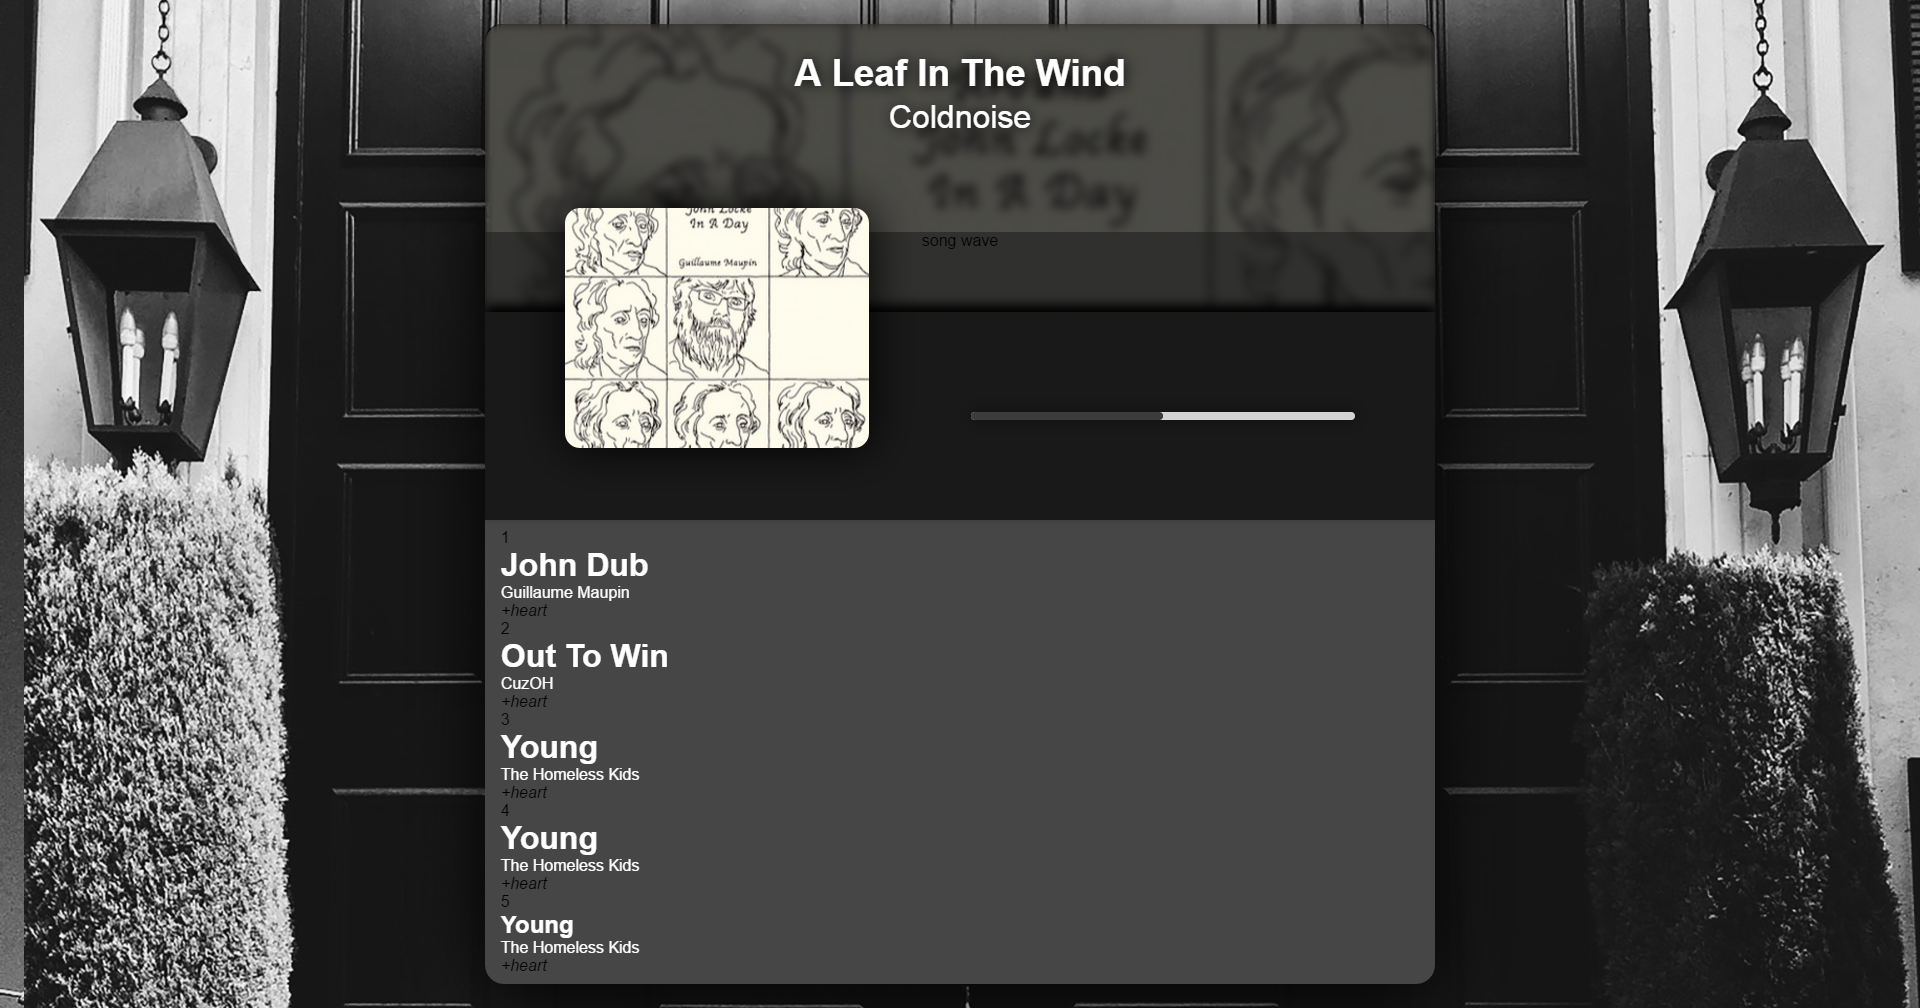
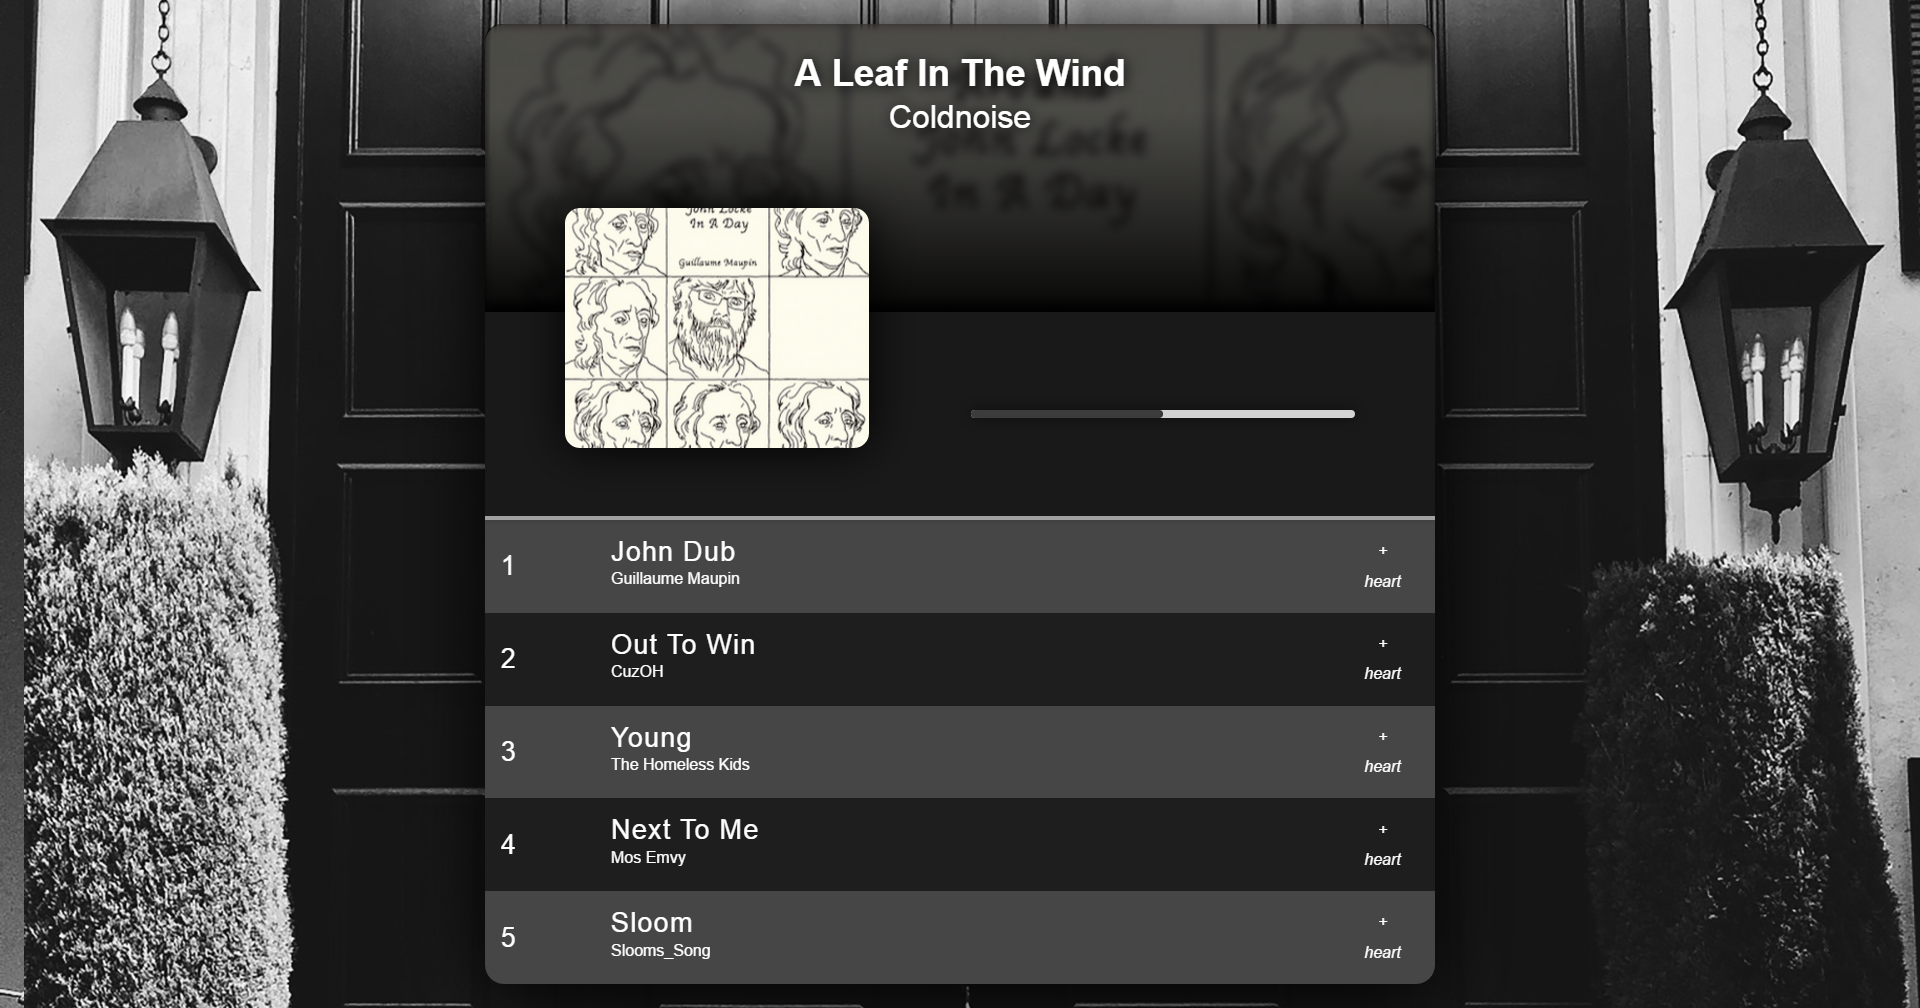
updating styles and project folder and uploading project audio

diff --git a/src/index.html b/src/index.html
@@ -13,7 +13,7 @@
         <header class="musicplayer_header">
           <h1>A Leaf In The Wind</h1>
           <p>Coldnoise</p>
-          <div class="wave">song wave</div>
+          <div class="wave"></div>
         </header>
         <section class="sec1">
           <div class="img_preview"></div>
@@ -25,46 +25,46 @@
             <div class="musicplayer_controls"></div>
           </div>
         </section>
-        <ul class="sec2">
-          <li class="sect01">
-            <div>1</div>
-            <div>
+        <ul class="list_container sec2">
+          <li class="list01">
+            <div class="list_num">1</div>
+            <div class="title_artist">
               <h1>John Dub</h1>
               <p>Guillaume Maupin</p>
             </div>
-            <div><i>+</i><i>heart</i></div>
+            <div class="icons"><i>+</i><i>heart</i></div>
           </li>
-          <li class="sect02">
-            <div>2</div>
-            <div>
+          <li class="list02">
+            <div class="list_num">2</div>
+            <div class="title_artist">
               <h1>Out To Win</h1>
               <p>CuzOH</p>
             </div>
-            <div><i>+</i><i>heart</i></div>
+            <div class="icons"><i>+</i><i>heart</i></div>
           </li>
-          <li class="sect03">
-            <div>3</div>
-            <div>
+          <li class="list03">
+            <div class="list_num">3</div>
+            <div class="title_artist">
               <h1>Young</h1>
               <p>The Homeless Kids</p>
             </div>
-            <div><i>+</i><i>heart</i></div>
+            <div class="icons"><i>+</i><i>heart</i></div>
           </li>
-          <li class="sect04">
-            <div>4</div>
-            <div>
-              <h1>Young</h1>
-              <p>The Homeless Kids</p>
+          <li class="list04">
+            <div class="list_num">4</div>
+            <div class="title_artist">
+              <h1>Next To Me</h1>
+              <p>Mos Emvy</p>
             </div>
-            <div><i>+</i><i>heart</i></div>
+            <div class="icons"><i>+</i><i>heart</i></div>
           </li>
-          <section class="sect05">
-            <div>5</div>
-            <div>
-              <h1>Young</h1>
-              <p>The Homeless Kids</p>
+          <li class="list05">
+            <div class="list_num">5</div>
+            <div class="title_artist">
+              <h1>Sloom</h1>
+              <p>Slooms_Song</p>
             </div>
-            <div><i>+</i><i>heart</i></div>
+            <div class="icons"><i>+</i><i>heart</i></div>
           </li>
         </ul>
         <footer class="musicplayer_footer"></footer>

diff --git a/src/assets/styles/css/main.css b/src/assets/styles/css/main.css
@@ -34,6 +34,23 @@ h1, h2, h3, h4, h5, p {
     z-index: 8;
     text-shadow: 1px 1px 20px black; }
 
+.list_num {
+  color: white;
+  font-size: 1.7em;
+  align-self: center; }
+
+.title_artist h1 {
+  font-size: 1.7em;
+  letter-spacing: 0.04em;
+  font-weight: 100; }
+
+.title_artist p {
+  font-size: 1em; }
+
+.icons {
+  color: white;
+  text-align: center; }
+
 body {
   background-color: rgba(30, 30, 30, 0.7);
   background-image: url(../../img/massivedoor.jpg);
@@ -83,10 +100,10 @@ body {
     z-index: -2; }
   .musicplayer_header .wave {
     position: absolute;
-    height: 5em;
+    height: 100%;
     width: 100%;
     bottom: 0;
-    background-color: rgba(30, 30, 30, 0.6); }
+    background: linear-gradient(to top, rgba(0, 0, 0, 0.9) 0%, transparent 70%); }
 
 .sec1 {
   background-color: #191919;
@@ -96,7 +113,8 @@ body {
   display: flex;
   flex-direction: row;
   justify-content: flex-end;
-  position: relative; }
+  position: relative;
+  border-bottom: 0.3em solid #a0a0a0; }
   .sec1 .img_preview {
     height: 15em;
     width: 19em;
@@ -131,13 +149,32 @@ body {
         transition: width 60s ease;
         border-radius: 15px; }
 
-.sec2 {
+.list_container {
   background-color: #464646;
-  padding: 1em 1em;
   height: 29em;
   display: flex;
   flex-direction: column;
   justify-content: space-around;
   box-shadow: 0px 17px 80px black; }
+  .list_container li {
+    display: flex;
+    flex-direction: row;
+    justify-content: flex-start;
+    padding: 1em 1em;
+    height: 100%; }
+    .list_container li h1 {
+      margin-bottom: 0.09em; }
+    .list_container li:nth-child(2), .list_container li:nth-child(4) {
+      background-color: #1e1e1e; }
+    .list_container li .list_num {
+      min-width: 12%; }
+    .list_container li .title_artist {
+      width: 81%;
+      min-width: 74%; }
+    .list_container li .icons {
+      display: flex;
+      flex-direction: column;
+      justify-content: space-around;
+      min-width: 8%; }
 
 /*# sourceMappingURL=main.css.map */
